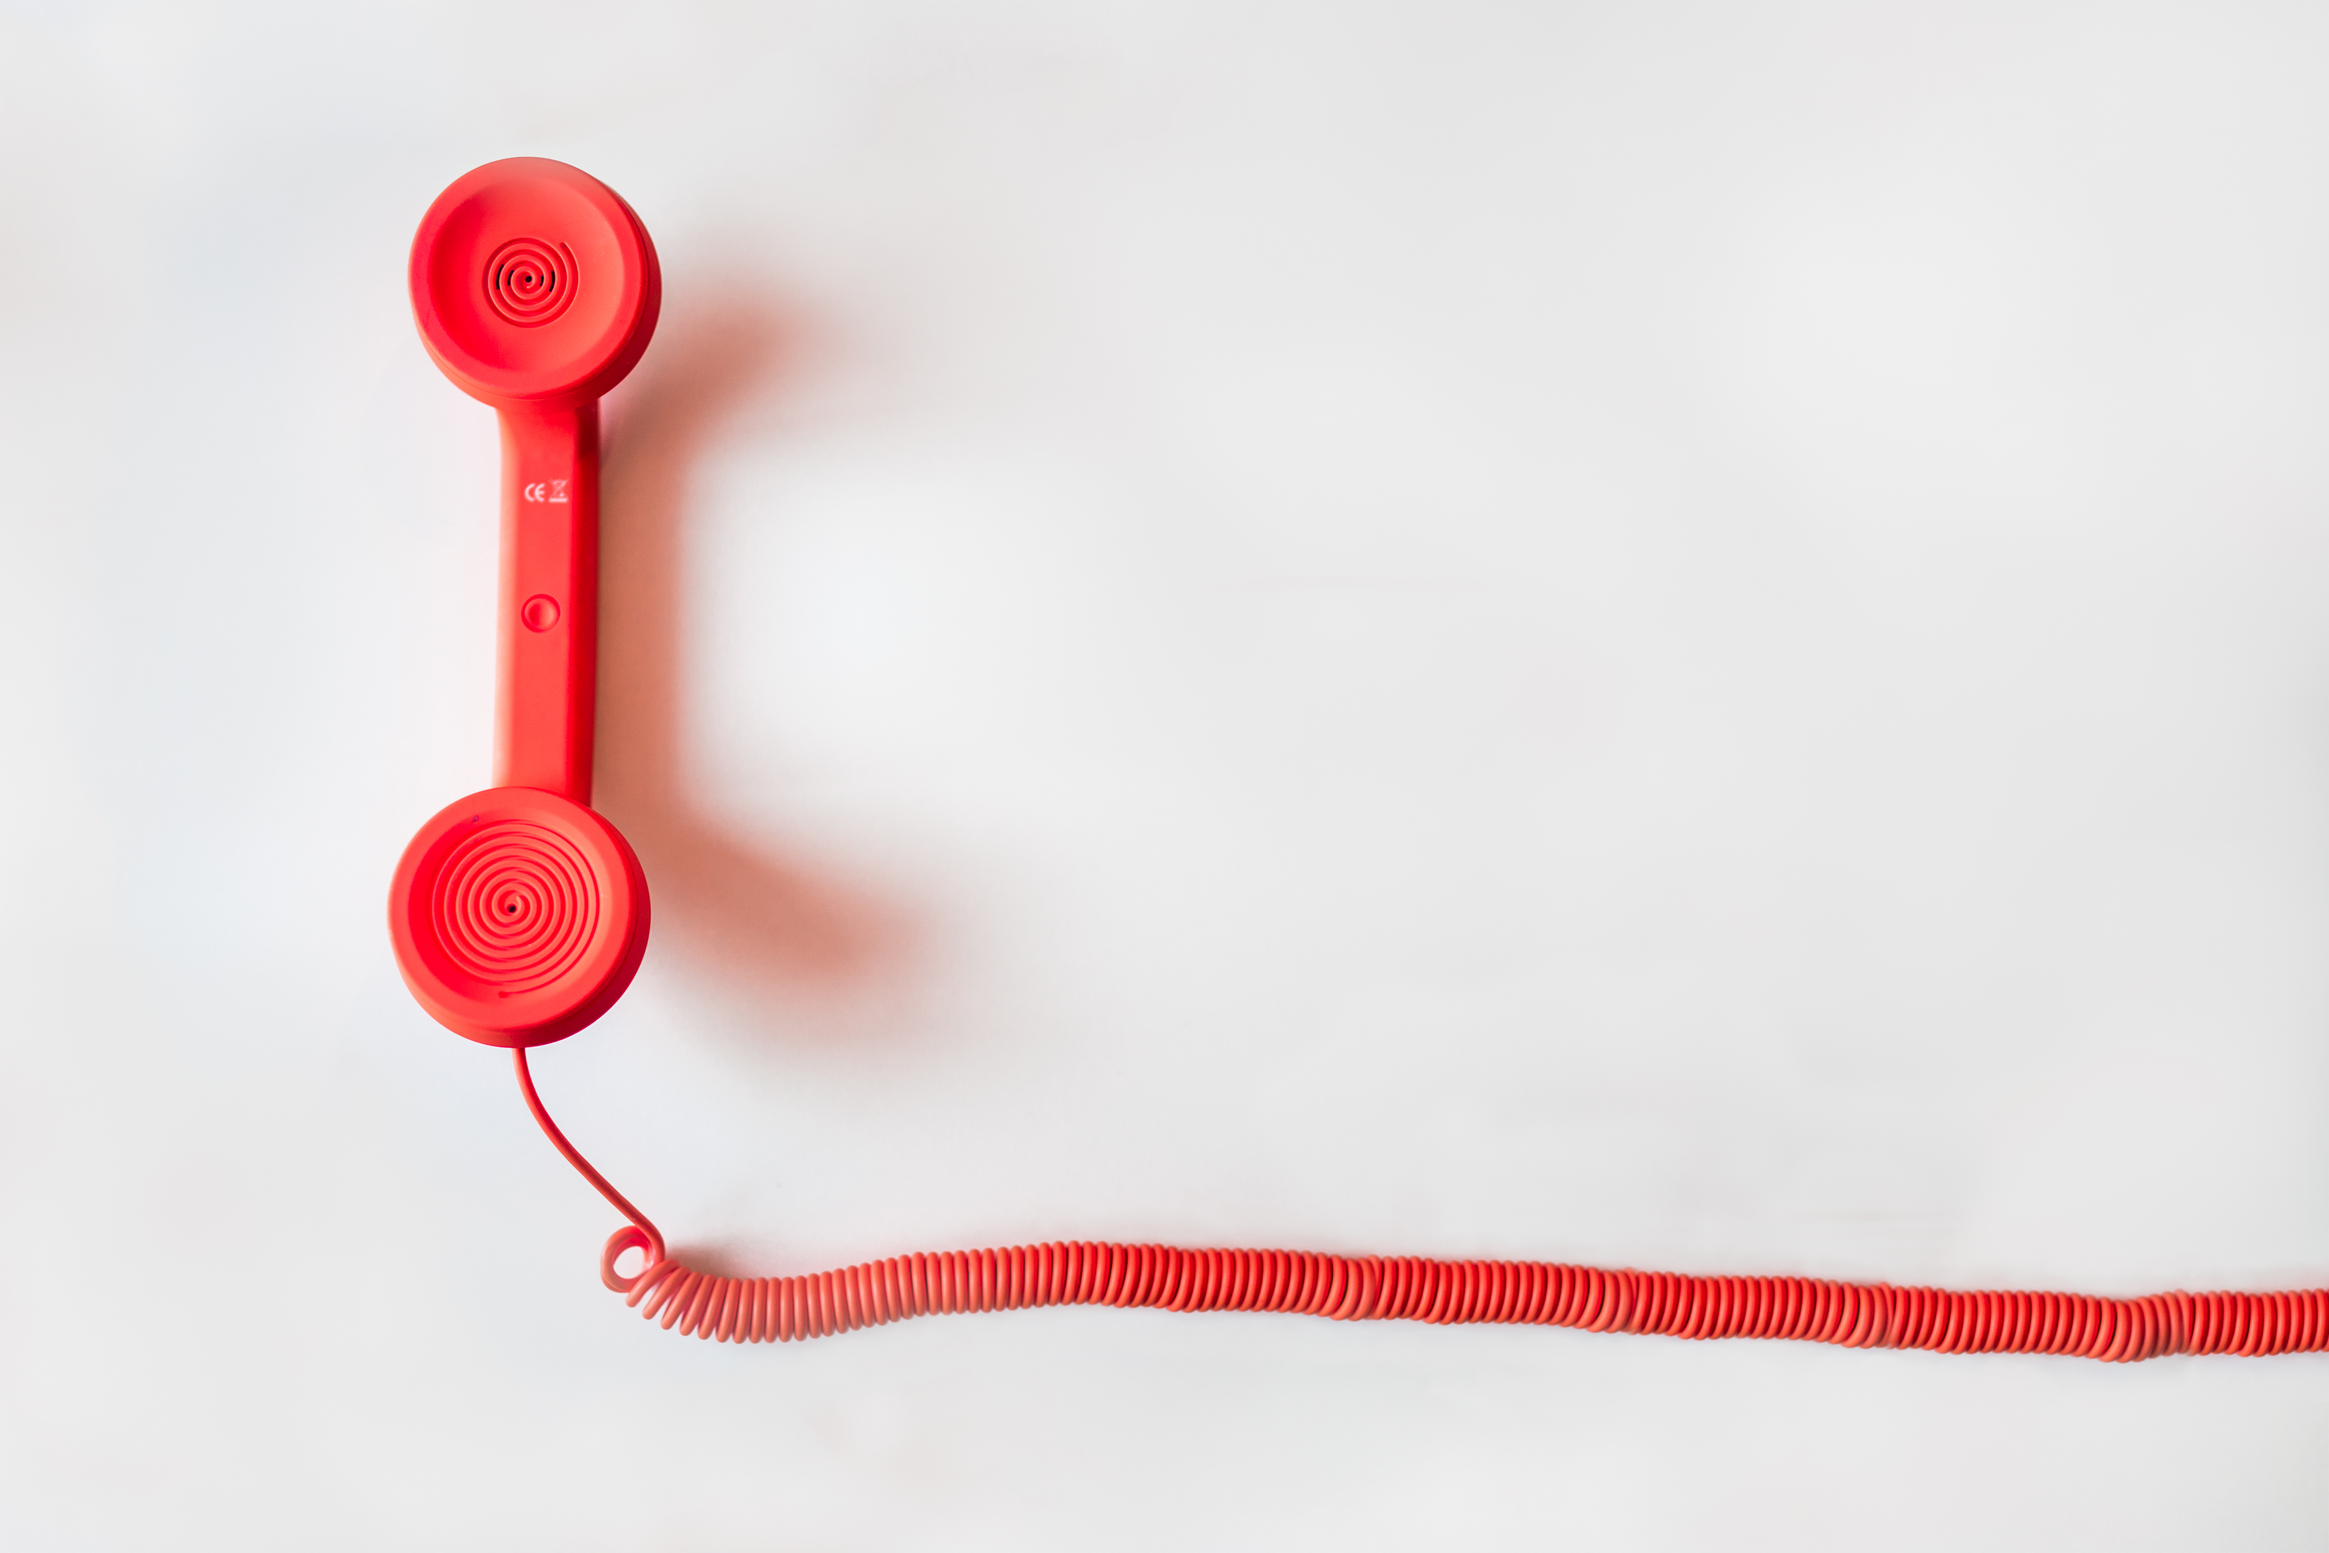
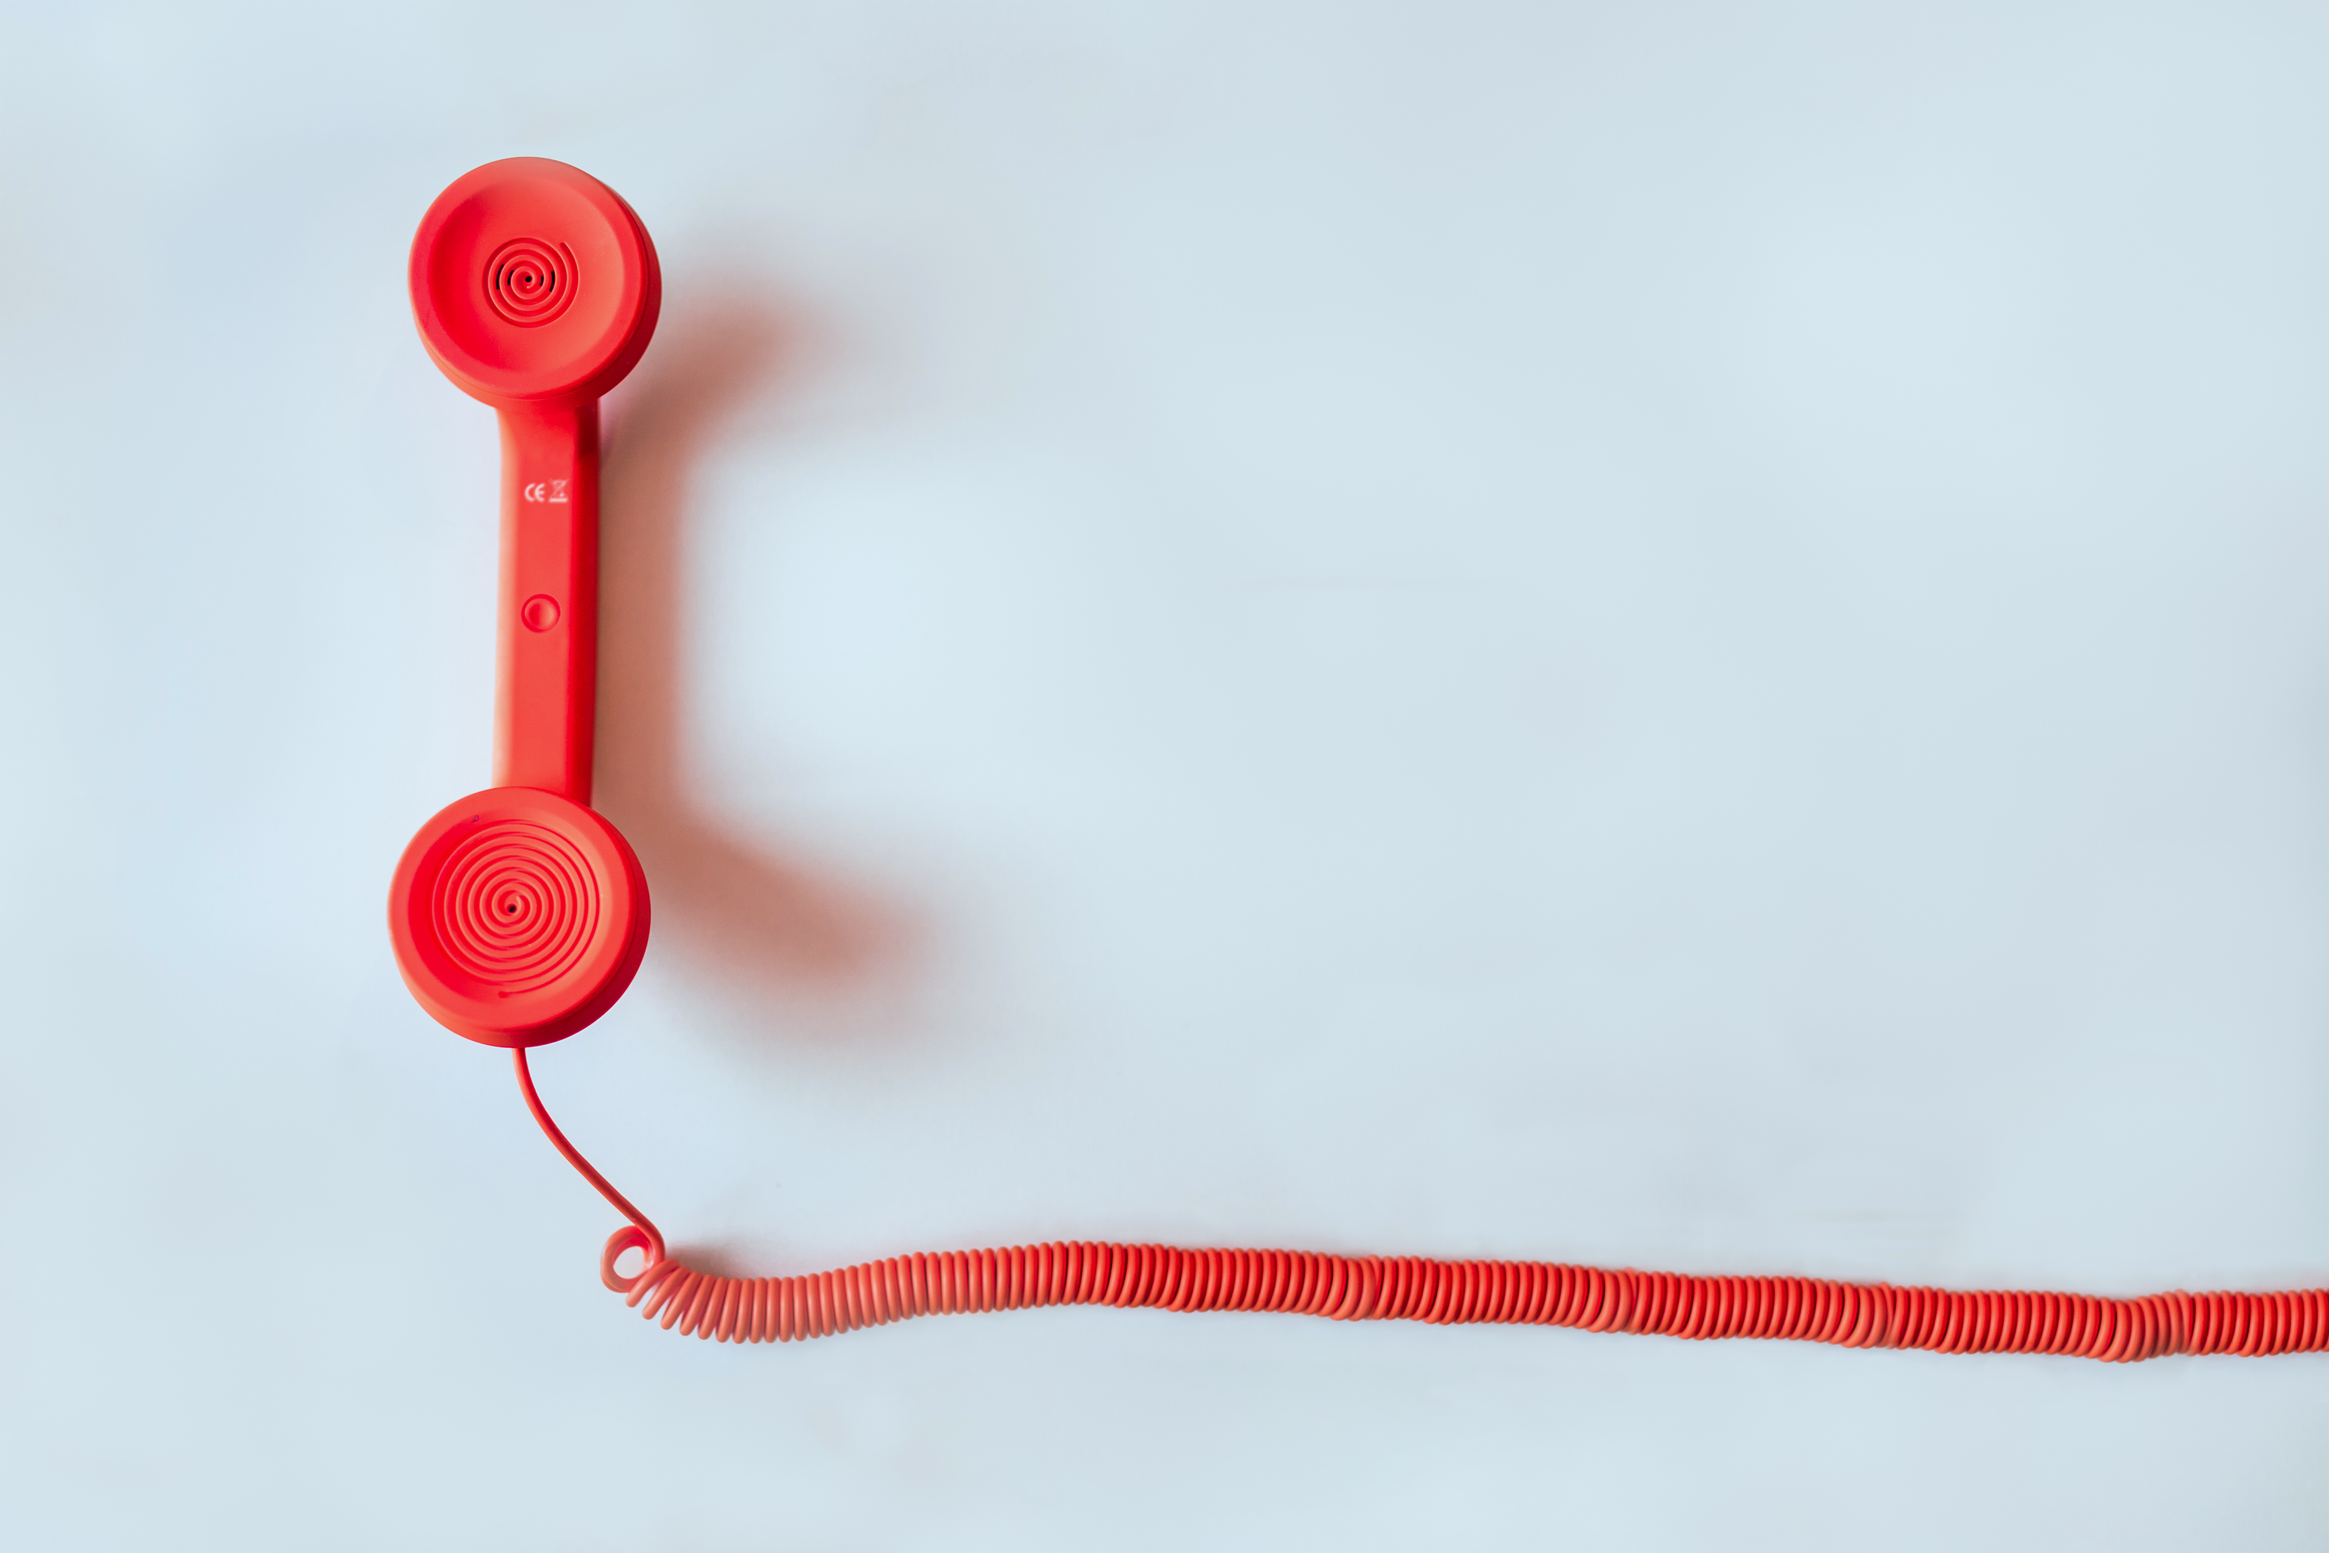
Contact, dog slant, map
update map and contact image
added contact text
made text work for phone size

diff --git a/website/static/base.css b/website/static/base.css
@@ -5,62 +5,109 @@ body {
 
 h1{
   position: absolute;
-<<<<<<< HEAD
-  display: block;
-  margin-right: 17%;
-=======
-  margin-left: 17%;
->>>>>>> origin/master
-  margin-top: 28%;
-  font-size: 100%;
-  border: 2px gray solid;
-  padding: 2%;
+  font-size: 1em;
+  border: 1px gray solid;
+  padding: .5%;
   color: gray;
-
   z-index: 1;
-  text-align: center;
-  align-content: 
+  text-align: center; 
+  font-family: 'raleway',sans-serif;
+}
+
+
+
+.amenities{
+  font-family:'marvel', sans-serif;
+  font-size: .5em;
+  position: absolute;
+  right:65%;
+  top: 45%;
+  color: gray;
+  z-index: 1;
+  text-align: left; 
 }
 .background-img {
   width: 100%;
   }
 
+.background-img-dog {
+  width: 100.6%;
+  margin-left: -.2%;
+  z-index: 0;
+    
+  }
+
 .dog {
   position: absolute;
-  width: 100%;
+  width: 100.6%;
   z-index: 2;
+  margin: 0;
+  top: 59%;
+  left:50%;
+  margin-right: -50%;
+  transform: translate(-50%, -50%)
 }
 
-.container {
+.map {
+  position: absolute;
   width: 100%;
+  z-index: 3;
 }
 
-#amenities {
-
+.container-contact {
+  position: relative;
+  width: 100%;
+  height: 100%;
 }
+
+.container-contact p{
+  font-family:'marvel', sans-serif;
+  font-size: .5em;
+  position: absolute;
+  left:35%;
+  top: 0;
+  color: gray;
+  z-index: 1;
+  text-align: left; 
+}
+
+.container-amenities {
+  position: relative;
+  width: 100%;
+  height: 100%;
+  -webkit-filter: sepia(20%);
+}
+
 #logo {
   position:absolute;
-  margin-left:35%;
+  margin-left:65%;
   width:30%;
-  margin-top: -20%;
+  margin-top: -22%;
 
 }
 
-#first-image {
-  -webkit-clip-path: polygon(0% 0%, 100% 0%, 100% 80%, 0% 100%);
+#header-amenities {
+  right:62%;
+  top: 23%;
+}
+
+#header-contact {
+  left:60%;
+  top: -45%;
 }
 
 #second-image {
-  -webkit-clip-path: polygon(0% 30, 100% 0%, 100% 100%, 0% 85%);
-  margin-top: -15%;
+  -webkit-clip-path: polygon(0% 0%, 100% 15%, 100% 100%, 0% 100%);
+  margin-top: -11%;
 }
 
 #third-image {
-  -webkit-clip-path: polygon(0% 0%, 100% 15%, 100% 100%, 0% 100%);
-  margin-top: -70px;
+  -webkit-clip-path: polygon(0% 35%, 100% 27%, 100% 100%, 0% 100%);
+  margin-top: -30%;
+  z-index: 3;
 }
 
 #fourth-image {
-  -webkit-clip-path: polygon(0% 9%, 100% 0%, 100% 100%, 0% 100%);
-  margin-top: -9%;
+  -webkit-clip-path: polygon(0% 0%, 100% 20%, 100% 100%, 0% 100%);
+  margin-top: -30%;
 }

diff --git a/website/templates/home.html b/website/templates/home.html
@@ -17,21 +17,36 @@
       <script src="https://oss.maxcdn.com/html5shiv/3.7.3/html5shiv.min.js"></script>
       <script src="https://oss.maxcdn.com/respond/1.4.2/respond.min.js"></script>
     <![endif]-->
+    <link href="https://fonts.googleapis.com/css?family=Advent+Pro|Athiti|Marvel|Pavanam|Raleway" rel="stylesheet">
   </head>
   <body>
     <div>
-      <image class="background-img" id="first-image" src="../static/images/BuildingDayBlurred.jpg" />
+      <image class="background-img" src="../static/images/BuildingDayBlurred.jpg" />
       <image id="logo" src="../static/images/logo.svg" />
     </div>
-    <div>
-      <image class="dog" src="../static/images/dog.png" />
-        <h1> Amenities</h1>
-        <p>Pet Friendly</p>
-      <image class="background-img" src="../static/images/dogbackground.png" />
+    <div class="container-amenities">
+      <image class="background-img-dog" id="second-image" src="../static/images/dogbackground.png" />
+        <div>
+          <h1 id="header-amenities"> Amenities</h1>
+          <ul class="amenities">
+            <li>Pet Friendly</li>
+            <li>On-Site Laundry</li>
+            <li>Dishwasher</li>
+            <li>Garbage disposal</li>
+            <li>Surface Lot</li>
+          </ul>
     </div>
-    <image class="background-img" id="third-image" src="../static/images/map.JPG" />
-    <image class="background-img" id="fourth-image" src="../static/images/phone.jpg" />
-    
+      <image class="dog" id="second-image" src="../static/images/dog.png" /> 
+    </div>
+    <div>
+      <image class="map" id="third-image" src="../static/images/map2.jpg" />
+      <image class="background-img" id="third-image" src="../static/images/map.JPG" />
+      </div>
+    <div class="container-contact">
+      <image class="background-img" id="fourth-image" src="../static/images/phone.jpg" />
+      <h1 id="header-contact">Contact Us</h1>
+      <p>Rally Cap Properties<br>515.999.5979<br>hello@rallycapproperties.com</p>
+    </div>
 
   
 
